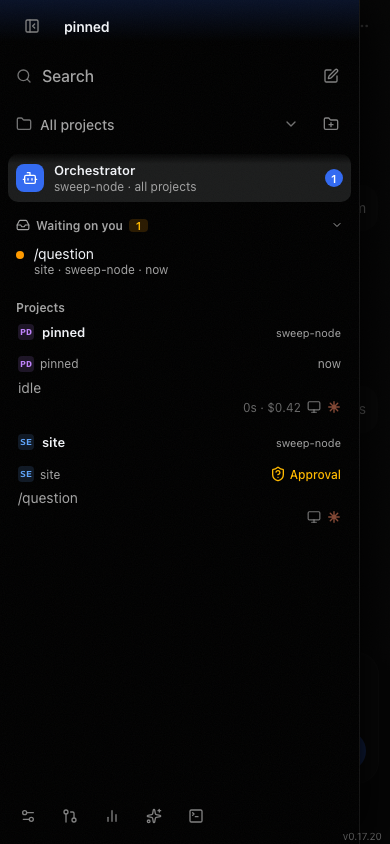
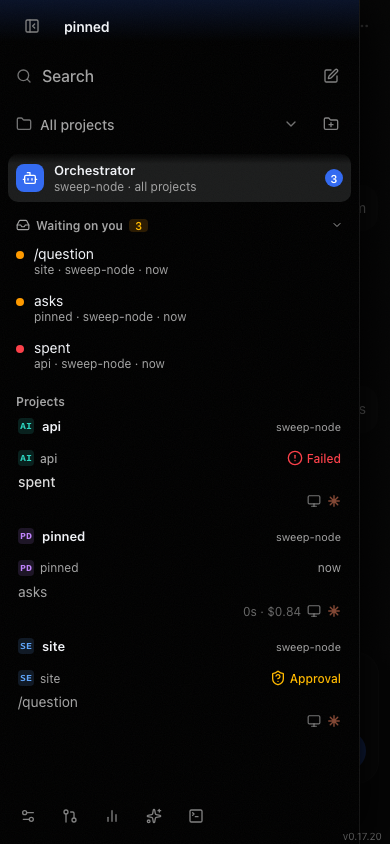
Sweep the waiting list with a finished turn that asked
fake-claude's `asks` prompt ends its reply with a question and then
sends Claude Code's idle notice, the shape monorepo-photoshot's "PR
list after the notice, beside a question mid-turn and a failure, that
each row's dot has its kind's tone, and that the orchestrator's row
counts all three. Their next turns take them off the list again before
the sidebar tree's checks. The waiting list is shot at 1440x900 and on
a phone.

diff --git a/scripts/web-sweep/global-chat.js b/scripts/web-sweep/global-chat.js
@@ -132,7 +132,7 @@ async function launchBrowser(errors) {
       await cdp.send("Emulation.setTouchEmulationEnabled", { enabled: true, maxTouchPoints: 5 });
       await cdp.send("Emulation.setUserAgentOverride", { userAgent: "Mozilla/5.0 (iPhone; CPU iPhone OS 17_0 like Mac OS X) AppleWebKit/605.1.15 (KHTML, like Gecko) Version/17.0 Mobile/15E148 Safari/604.1" });
     } else {
-      await cdp.send("Emulation.setDeviceMetricsOverride", { width: 1280, height: 800, deviceScaleFactor: 1, mobile: false });
+      await cdp.send("Emulation.setDeviceMetricsOverride", { width: 1440, height: 900, deviceScaleFactor: 1, mobile: false });
     }
     return {
       cdp,
@@ -264,7 +264,7 @@ const sendText = (page, text) => page.evaluate((t) => {
 
     // The reports name real tabs, so their Captains open real threads.
     const keys = {};
-    for (const name of ["site", "pinned"]) {
+    for (const name of ["site", "pinned", "api"]) {
       fs.mkdirSync(path.join(WORK, name), { recursive: true });
       keys[name] = await page.evaluate(async ({ machine, dir }) => {
         const open = tabs.find((t) => t.machine === machine && t.view.cwd === dir);
@@ -339,9 +339,30 @@ const sendText = (page, text) => page.evaluate((t) => {
     check(s.row.endsWith("all projects 1"), `the orchestrator's row does not count the one waiting thread: ${s.row}`);
     check(!s.threadRows.includes(globalKey), "the global tab joined the thread list");
     check(await page.evaluate((k) => tabByKey(k).view.status === "needs-input" && !tabByKey(k).view.interrupted, keys.pinned), "the pinned Captain left its idle notice");
+
+    // A turn that ends asking the user still waits once Claude Code's idle notice follows it, as
+    // monorepo-photoshot's "PR #254" did, and so does a failure.
+    await page.evaluate((k) => activate(tabByKey(k)), keys.pinned);
+    await sendText(page, "asks");
+    await waitFor("the asked question", () => page.evaluate(() => document.querySelectorAll(".waiting-row").length === 2));
+    await waitFor("the idle notice after the question", () => page.evaluate((k) => tabByKey(k).view.status === "needs-input", keys.pinned));
+    const asked = await page.evaluate((k) => tabByKey(k).view, keys.pinned);
+    console.log("asked:", JSON.stringify({ status: asked.status, interrupted: asked.interrupted ?? false, message: asked.message, question: asked.question }));
+    check(!asked.interrupted && asked.question === "Should I cut the release now?", "the pinned Captain's question did not survive its idle notice");
+    check(await page.evaluate(() => document.querySelectorAll(".waiting-row").length === 2), "the idle notice took the question off the list");
+    await page.evaluate((k) => activate(tabByKey(k)), keys.api);
+    await sendText(page, "spent");
+    await waitFor("the failure", () => page.evaluate(() => document.querySelectorAll(".waiting-row").length === 3));
+    await page.evaluate(() => activate(tabs.find(isGlobalOrchestratorTab)));
+    s = await page.evaluate(state);
+    console.log("waiting:", JSON.stringify({ head: s.waitingHead, rows: s.waitingRows }));
+    check(s.waitingHead === "Waiting on you 3", `head: ${s.waitingHead}`);
+    check(s.row.endsWith("all projects 3"), `the orchestrator's row does not count three waiting threads: ${s.row}`);
+    const kinds = await page.evaluate(() => [...document.querySelectorAll(".waiting-row")].map((r) => `${r.querySelector(".dot").classList[1]} ${r.querySelector(".where").innerText.split(" · ")[0]}`).sort());
+    check(JSON.stringify(kinds) === JSON.stringify(["failed api", "question pinned", "question site"]), `rows: ${JSON.stringify(kinds)}`);
     await page.screenshot(path.join(SCREENS, "global-chat-waiting.png"));
 
-    await page.click(".waiting-row");
+    await page.click(`.waiting-row[data-waiting="${keys.site}"]`);
     await waitFor("the question's thread to open", () => page.evaluate((k) => active?.key === k, keys.site));
 
     // Read aloud stays silent on a desktop even with the setting on.
@@ -385,6 +406,14 @@ const sendText = (page, text) => page.evaluate((t) => {
     check(JSON.stringify(phoneSpoken) === JSON.stringify([{ text: "Li os relatórios dos dois Capitães.", lang: "pt-BR" }]), `spoken: ${JSON.stringify(phoneSpoken)}`);
     await waitFor("the phone's quick replies", () => phone.evaluate(() => document.querySelectorAll(".quick-reply").length === 2));
     await phone.screenshot(path.join(SCREENS, "global-chat-phone.png"));
+
+    // The next turn of a thread that asked, or that failed, takes it off the list.
+    for (const name of ["pinned", "api"]) {
+      await page.evaluate((k) => activate(tabByKey(k)), keys[name]);
+      await sendText(page, "ok");
+    }
+    await waitFor("the answered threads to leave the list", () => page.evaluate(() => document.querySelectorAll(".waiting-row").length === 1));
+    check(await page.evaluate((k) => !tabByKey(k).view.question, keys.pinned), "the pinned Captain kept its question after the next turn");
 
     // The sidebar tree: the orchestrator's row with its count, Waiting on you, then each project
     // with its Captain, the Captain's workers under it, and the project's plain threads.
